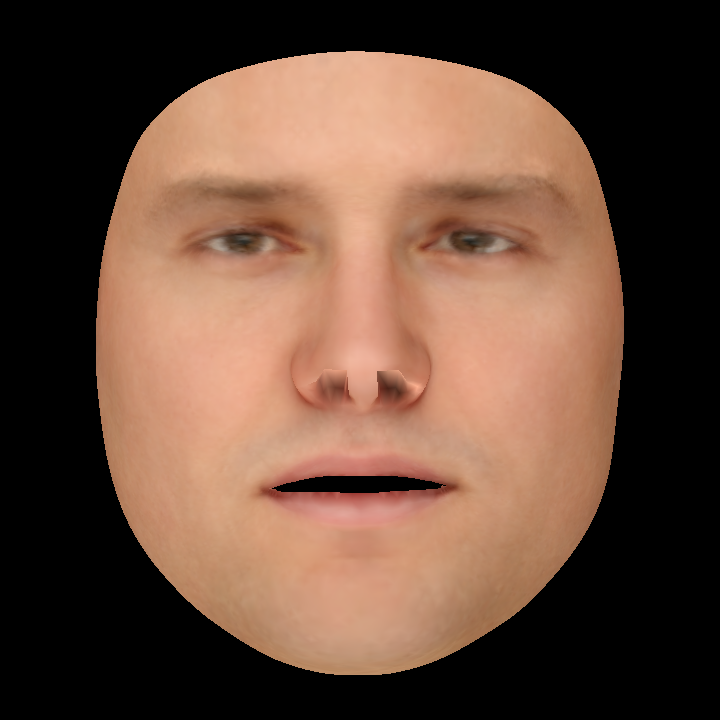
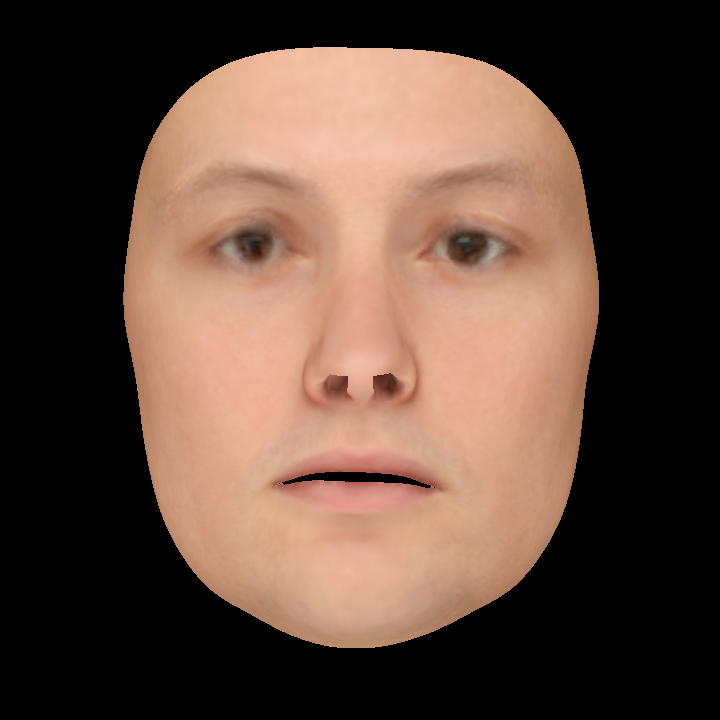
Renderer restructured and depth image is now added

diff --git a/src/Renderer.h b/src/Renderer.h
@@ -6,96 +6,17 @@
 #include "opencv2/core/core.hpp"
 #include <GL/glew.h>
 #include <GLFW/glfw3.h>
-#include <chrono>
 
 class Renderer{
 public:
-	static Renderer& Get() {
-		return s_instance;
-	}
+	Renderer(int height, int width, FaceModel face_model) {
+		viewport_height = height;
+		viewport_width = width;
 
-	cv::Mat render(Face face, Matrix4f projection_matrix, int viewport_width, int viewport_height, bool enable_backface_culling = true, bool enable_near_clipping = true, bool enable_far_clipping = true)
-	{
-		MatrixXf model_vertices(4, face.getFaceModel().getNumVertices());
-		model_vertices.block(0, 0, 3, face.getFaceModel().getNumVertices()) = face.calculateVerticesDefault().reshaped(3, face.getFaceModel().getNumVertices());
-		model_vertices.row(3) = VectorXf::Ones(face.getFaceModel().getNumVertices());
-		MatrixXf clipspace_vertices_coord = (projection_matrix * model_vertices).block(0, 0, 3, face.getFaceModel().getNumVertices());
-		Eigen::Matrix<unsigned int, -1, -1> triangulation = face.getFaceModel().getTriangulation().transpose().cast <unsigned int>();
-
-		GLuint color;
-		glGenTextures(1, &color);
-		glBindTexture(GL_TEXTURE_2D, color);
-		glTexParameteri(GL_TEXTURE_2D, GL_TEXTURE_MAG_FILTER, GL_LINEAR);
-		glTexParameteri(GL_TEXTURE_2D, GL_TEXTURE_MIN_FILTER, GL_LINEAR);
-		glTexImage2D(GL_TEXTURE_2D, 0, GL_RGB, viewport_width, viewport_height, 0, GL_RGB, GL_UNSIGNED_BYTE, NULL);
-
-		GLuint depth;
-		glGenRenderbuffers(1, &depth);
-		glBindRenderbuffer(GL_RENDERBUFFER, depth);
-		glRenderbufferStorage(GL_RENDERBUFFER, GL_DEPTH_COMPONENT, viewport_width, viewport_height);
-
-		GLuint fbo;
-		glGenFramebuffers(1, &fbo);
-		glBindFramebuffer(GL_FRAMEBUFFER, fbo);
-		glFramebufferTexture2D(GL_FRAMEBUFFER, GL_COLOR_ATTACHMENT0, GL_TEXTURE_2D, color, 0);
-		glFramebufferRenderbuffer(GL_FRAMEBUFFER, GL_DEPTH_ATTACHMENT, GL_RENDERBUFFER, depth);
-
-		glDrawBuffer(GL_COLOR_ATTACHMENT0);
-		glClear(GL_COLOR_BUFFER_BIT | GL_DEPTH_BUFFER_BIT);
-
-		glBindFramebuffer(GL_FRAMEBUFFER, fbo);
-		glViewport(0, 0, viewport_width, viewport_height);
-
-		const GLint mvp_location = glGetAttribLocation(program, "MVP");
-		const GLint vpos_location = glGetAttribLocation(program, "vPos");
-		const GLint vcol_location = glGetAttribLocation(program, "vCol");
-
-		GLuint vertex_buffer, color_buffer, index_buffer;
-		glGenBuffers(1, &vertex_buffer);
-		glBindBuffer(GL_ARRAY_BUFFER, vertex_buffer);
-		glBufferData(GL_ARRAY_BUFFER, 3 * face.getFaceModel().getNumVertices() * sizeof(float), clipspace_vertices_coord.data(), GL_STATIC_DRAW);
-		glVertexAttribPointer(vpos_location, 3, GL_FLOAT, GL_FALSE, 0, NULL);
-		glEnableVertexAttribArray(vpos_location);
-
-		glGenBuffers(1, &color_buffer);
-		glBindBuffer(GL_ARRAY_BUFFER, color_buffer);
-		glBufferData(GL_ARRAY_BUFFER, 3 * face.getFaceModel().getNumVertices() * sizeof(float), face.calculateColorsDefault().data(), GL_STATIC_DRAW);
-		glVertexAttribPointer(vcol_location, 3, GL_FLOAT, GL_FALSE, 0, NULL);
-		glEnableVertexAttribArray(vcol_location);
-
-		glGenBuffers(1, &index_buffer);
-		glBindBuffer(GL_ELEMENT_ARRAY_BUFFER, index_buffer);
-		glBufferData(GL_ELEMENT_ARRAY_BUFFER, 3 * face.getFaceModel().getTriangulation().rows() * sizeof(unsigned int), triangulation.data(), GL_STATIC_DRAW);
-
-		glUseProgram(program);
-		glDrawElements(GL_TRIANGLES, 3 * face.getFaceModel().getTriangulation().rows(), GL_UNSIGNED_INT, NULL);
-
-		glBindBuffer(GL_ARRAY_BUFFER, 0);
-		glBindBuffer(GL_ELEMENT_ARRAY_BUFFER, 0);
-		glDisableVertexAttribArray(0);
-		glDisableVertexAttribArray(1);
-
-		unsigned char* gl_texture_bytes = (unsigned char*)malloc(sizeof(unsigned char) * viewport_height * viewport_width * 3);
-		glReadPixels(0, 0, viewport_height, viewport_width, GL_BGR, GL_UNSIGNED_BYTE, gl_texture_bytes);
-		cv::Mat img(viewport_height, viewport_width, CV_8UC3, gl_texture_bytes);
-		cv::flip(img, img, 0);
-
-		glDeleteFramebuffers(1, &fbo);
-		glfwSwapBuffers(window);
-		glfwPollEvents();
-		return img;
-	};
-
-	void terminate_rendering_context() {
-		glfwTerminate();
-	}
-
-private:
-	Renderer() {
 		glfwInit();
 
 		glfwWindowHint(GLFW_VISIBLE, GLFW_FALSE);
-		window = glfwCreateWindow(720, 720, "face", NULL, NULL);
+		window = glfwCreateWindow(viewport_width, viewport_height, "face", NULL, NULL);
 
 		glfwMakeContextCurrent(window);
 
@@ -110,12 +31,13 @@ private:
 		const char* vertex_shader_text =
 			"#version 140\n"
 			"#extension GL_ARB_explicit_attrib_location : require\n"
+			"uniform mat4 proj_matrix;"
 			"in vec3 vPos;"
 			"in vec3 vCol;"
 			"out vec3 color;\n"
 			"void main()\n"
 			"{\n"
-			"    gl_Position = vec4(vPos, 1.0);\n"
+			"    gl_Position = proj_matrix * vec4(vPos, 1.0);\n"
 			"    color = vCol;\n"
 			"}\n";
 
@@ -129,11 +51,11 @@ private:
 			"    fragment = vec4(color, 1);"
 			"}\n";
 
+		GLint isCompiled = 0;
+
 		const GLuint vertex_shader = glCreateShader(GL_VERTEX_SHADER);
 		glShaderSource(vertex_shader, 1, &vertex_shader_text, NULL);
 		glCompileShader(vertex_shader);
-
-		GLint isCompiled = 0;
 		glGetShaderiv(vertex_shader, GL_COMPILE_STATUS, &isCompiled);
 		if (isCompiled == GL_FALSE)
 		{
@@ -175,9 +97,94 @@ private:
 		glLinkProgram(program);
 		glDeleteShader(vertex_shader);
 		glDeleteShader(fragment_shader);
+
+		//Bind FBO
+		glGenTextures(1, &color);
+		glBindTexture(GL_TEXTURE_2D, color);
+		glTexParameteri(GL_TEXTURE_2D, GL_TEXTURE_MAG_FILTER, GL_LINEAR);
+		glTexParameteri(GL_TEXTURE_2D, GL_TEXTURE_MIN_FILTER, GL_LINEAR);
+		glTexImage2D(GL_TEXTURE_2D, 0, GL_RGB, viewport_width, viewport_height, 0, GL_RGB, GL_UNSIGNED_BYTE, NULL);
+
+		glGenRenderbuffers(1, &depth);
+		glBindRenderbuffer(GL_RENDERBUFFER, depth);
+		glRenderbufferStorage(GL_RENDERBUFFER, GL_DEPTH_COMPONENT, viewport_width, viewport_height);
+
+		glGenFramebuffers(1, &fbo);
+		glBindFramebuffer(GL_FRAMEBUFFER, fbo);
+		glFramebufferTexture2D(GL_FRAMEBUFFER, GL_COLOR_ATTACHMENT0, GL_TEXTURE_2D, color, 0);
+		glFramebufferRenderbuffer(GL_FRAMEBUFFER, GL_DEPTH_ATTACHMENT, GL_RENDERBUFFER, depth);
+
+		glDrawBuffer(GL_COLOR_ATTACHMENT0);
+
+		const GLint vpos_location = glGetAttribLocation(program, "vPos");
+		const GLint vcol_location = glGetAttribLocation(program, "vCol");
+
+		//Bind VBOs
+		Eigen::Matrix<unsigned int, -1, -1> triangulation = face_model.getTriangulation().transpose().cast <unsigned int>();
+
+		glGenBuffers(1, &vertex_buffer);
+		glBindBuffer(GL_ARRAY_BUFFER, vertex_buffer);
+		glBufferData(GL_ARRAY_BUFFER, 3 * face_model.getNumVertices() * sizeof(float), face_model.getShapeMean().data(), GL_STATIC_DRAW);
+
+		glVertexAttribPointer(vpos_location, 3, GL_FLOAT, GL_FALSE, 0, NULL);
+		glEnableVertexAttribArray(vpos_location);
+
+		glGenBuffers(1, &color_buffer);
+		glBindBuffer(GL_ARRAY_BUFFER, color_buffer);
+		glBufferData(GL_ARRAY_BUFFER, 3 * face_model.getNumVertices() * sizeof(float), face_model.getColorMean().data(), GL_STATIC_DRAW);
+		glVertexAttribPointer(vcol_location, 3, GL_FLOAT, GL_FALSE, 0, NULL);
+		glEnableVertexAttribArray(vcol_location);
+
+		glGenBuffers(1, &index_buffer);
+		glBindBuffer(GL_ELEMENT_ARRAY_BUFFER, index_buffer);
+		glBufferData(GL_ELEMENT_ARRAY_BUFFER, 3 * face_model.getTriangulation().rows() * sizeof(unsigned int), triangulation.data(), GL_STATIC_DRAW);
+
+		glUseProgram(program);
+		GLint render_projection_matrix_loc = glGetUniformLocation(program, "proj_matrix");
 	}
 
-	static Renderer s_instance;
-	GLuint program;
+	std::pair<cv::Mat, cv::Mat> render(Face face, Matrix4f projection_matrix, bool enable_backface_culling = true, bool enable_near_clipping = true, bool enable_far_clipping = true)
+	{
+		VectorXf vertices = face.calculateVerticesDefault();
+		VectorXf colors = face.calculateColorsDefault();
+
+		glClear(GL_COLOR_BUFFER_BIT | GL_DEPTH_BUFFER_BIT);
+		glViewport(0, 0, viewport_width, viewport_height);
+
+		glUniformMatrix4fv(render_projection_matrix_loc, 1, GL_FALSE, projection_matrix.data());
+
+		glBindBuffer(GL_ARRAY_BUFFER, vertex_buffer);
+		glNamedBufferSubData(vertex_buffer, 0, 3 * face.getFaceModel().getNumVertices() * sizeof(float), vertices.data());
+
+		glBindBuffer(GL_ARRAY_BUFFER, color_buffer);
+		glNamedBufferSubData(color_buffer, 0, 3 * face.getFaceModel().getNumVertices() * sizeof(float), colors.data());
+		glBindBuffer(GL_ELEMENT_ARRAY_BUFFER, index_buffer);
+
+		glDrawElements(GL_TRIANGLES, 3 * face.getFaceModel().getTriangulation().rows(), GL_UNSIGNED_INT, NULL);
+
+		glBindBuffer(GL_ARRAY_BUFFER, 0);
+		glBindBuffer(GL_ELEMENT_ARRAY_BUFFER, 0);
+
+		unsigned char* gl_texture_bytes = (unsigned char*)malloc(sizeof(unsigned char) * viewport_height * viewport_width * 3);
+		float* gl_depth_floats = (float*)malloc(sizeof(float) * viewport_height * viewport_width);
+		glReadPixels(0, 0, viewport_height, viewport_width, GL_BGR, GL_UNSIGNED_BYTE, gl_texture_bytes);
+		glReadPixels(0, 0, viewport_height, viewport_width, GL_DEPTH_COMPONENT, GL_FLOAT, gl_depth_floats);
+		cv::Mat img(viewport_height, viewport_width, CV_8UC3, gl_texture_bytes);
+		cv::Mat depth(viewport_height, viewport_width, CV_32FC1, gl_depth_floats);
+		cv::flip(img, img, 0);
+		cv::flip(depth, depth, 0);
+		glfwSwapBuffers(window);
+		glfwPollEvents();
+
+		return std::make_pair(img, depth);
+	};
+
+	void terminate_rendering_context() {
+		glfwTerminate();
+	}
+
+private:
+	int viewport_width, viewport_height;
+	GLuint program, vertex_buffer, color_buffer, index_buffer, color, depth, fbo, render_projection_matrix_loc;
 	GLFWwindow* window;
 };

diff --git a/src/main.cpp b/src/main.cpp
@@ -6,9 +6,6 @@
 
 using namespace std;
 
-// singleton class
-Renderer Renderer::s_instance;
-
 vector<string> taskOptions{ "Face reconstruction", "Expression transfer", "Rasterize random face" };
 int taskOption = -1;
 // For now we only hadle sample images case
@@ -60,20 +57,29 @@ void performTask() {
 	}
 	case 3:
 	{
-		auto& renderer = Renderer::Get();
-		float scale_factor = 1 / 100.f;
+		// Initialize Renderer
+		FaceModel face_model = FaceModel("BFM17");
+		Renderer renderer(720, 720, face_model);
+		// Initialize a random face
 		Face face;
 		face.randomizeParameters();
+		// Initialize the default projection matrix which moves the face to origin
+		float scale_factor = 1 / 100.f;
 		MatrixXf coords = face.calculateVerticesDefault().reshaped(3, face.getFaceModel().getNumVertices()).transpose();
 		Vector3f mean = coords.colwise().mean();
 		Matrix4f projection_matrix = Matrix4f::Identity() * scale_factor;
 		projection_matrix.block(0, 3, 3, 1) = -mean * scale_factor;
 		projection_matrix(3, 3) = 1.f;
-		const auto start = std::chrono::steady_clock::now();
-		cv::Mat img = renderer.render(face, projection_matrix, 720, 720);
-		const auto end = std::chrono::steady_clock::now();
+		// Render the face and project it to a 2D plane
+		auto start = std::chrono::steady_clock::now();
+		std::pair img = renderer.render(face, projection_matrix, 720, 720);
+		auto end = std::chrono::steady_clock::now();
 		std::cout << "time used: " << std::to_string(std::chrono::duration_cast<std::chrono::microseconds>(end - start).count()) << "ms\n";
-		cv::imwrite("../../data/samples/2d face image/sample_image.png", img);
+		// Rescale the range of the depth to 0-255 in order to save the sample images
+		cv::Mat depth_to_visualize;
+		cv::normalize(img.second, depth_to_visualize, 0, 255, cv::NORM_MINMAX, CV_8UC1);
+		cv::imwrite("../../data/samples/2d face image/sample_image.png", img.first);
+		cv::imwrite("../../data/samples/2d face image/sample_image_depth.png", depth_to_visualize);
 		break;
 	}
 	default:
